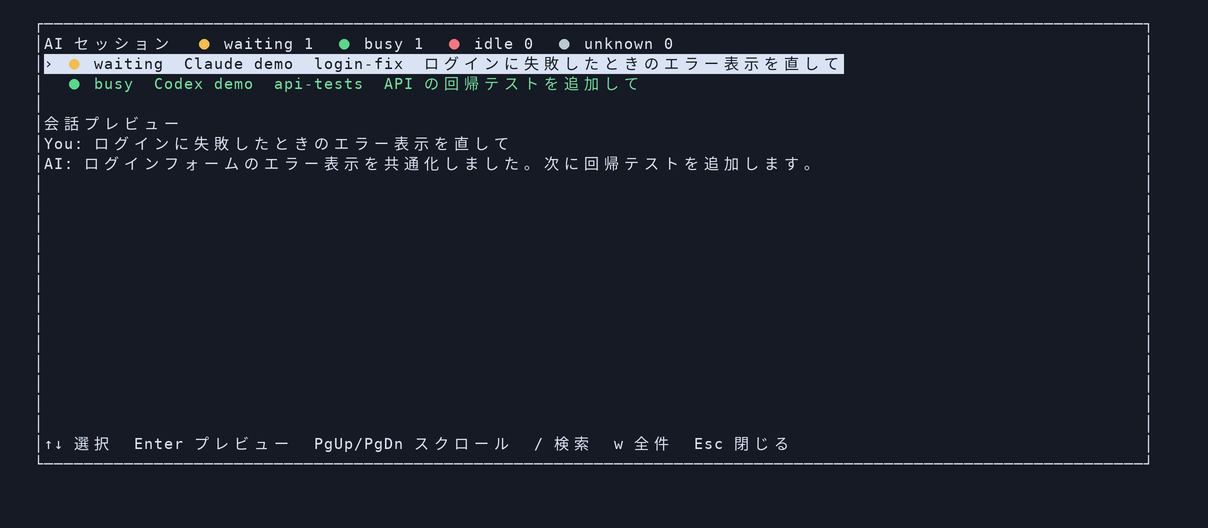
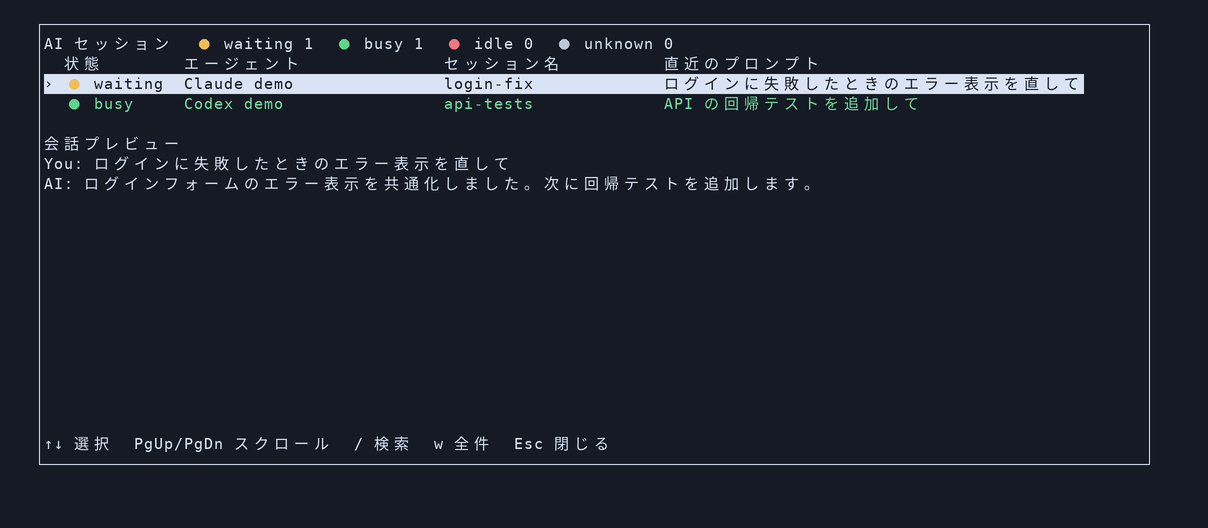
feat(tmux): preview the focused AI session automatically

Changed region(s): [[0.0306, 0.0909, 0.9189, 0.3636], [0.0306, 0.8182, 0.9495, 0.9091], [0.0306, 0.0303, 0.9495, 0.0606]]

diff --git a/docs/ccmanager.md b/docs/ccmanager.md
@@ -43,11 +43,11 @@ Session Actions では次の操作もできます。
 `prefix → Ctrl+D → AI セッション一覧` で、ホスト上の複数の ccmanager が管理するセッションを
 まとめて表示します。ステータスバーにも状態別の件数が出ます。
 
-- `↑` / `↓` で行を選択し、`Enter` で直近の会話を開閉します。
+- `↑` / `↓` で行を移動すると、選択中のセッションの直近の会話が自動で表示されます。
 - `/` でセッション名・ブランチ・プロンプトを検索し、`w` で入力待ちだけに絞ります。
 - `PgUp` / `PgDn` で会話をスクロールし、`Esc` で閉じます。
 
-配置後は tmux の設定を再読み込みし、新しい ccmanager セッションで状態フックを有効にします。
+配置後は tmux の設定を再読み込みし、ccmanager を再起動して状態フックを有効にします。
 会話プレビューは、この設定で起動した Docker Sandbox の Claude / Codex が対象です。
 Codex でフックの承認が求められた場合は `/hooks` で設定を確認してください。
 同じ ccmanager が同じ worktree・preset のセッションを複数起動した場合、状態と名前は各行に
